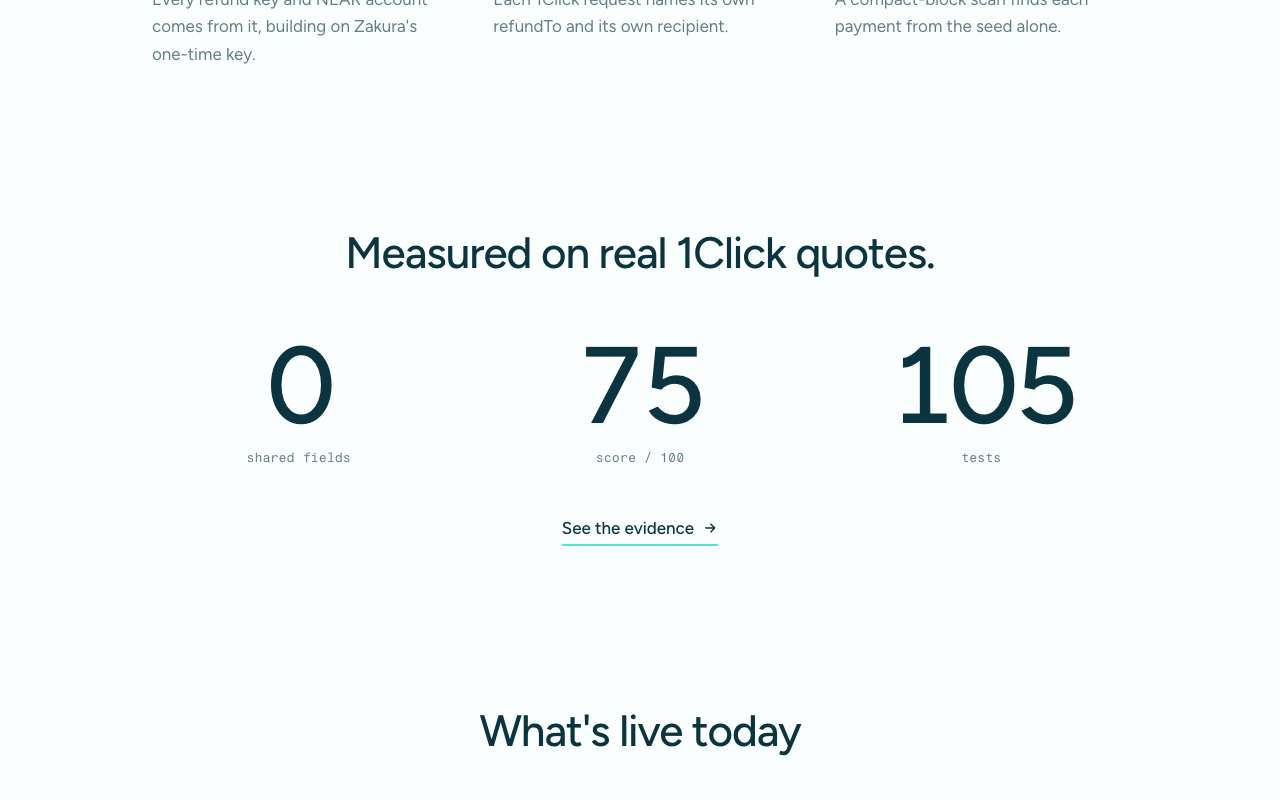
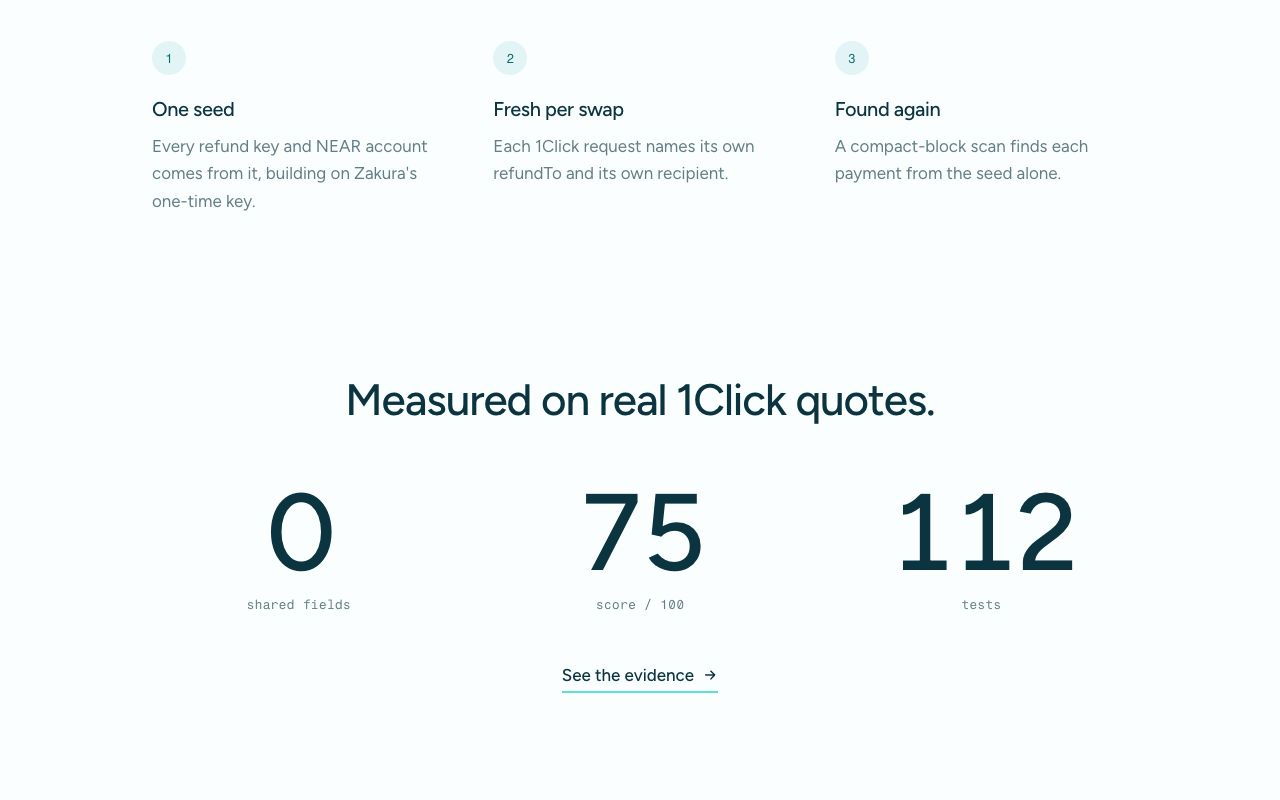
Record passing browser handback and refresh local audit evidence

diff --git a/AUDIT.md b/AUDIT.md
@@ -17,7 +17,7 @@ Oct 26, 2026: 352 data rows — **339 PASS, 0 FAIL, 13 UNTESTED**. CLI-022, CLI-
 | UI-011 | Live landing pass-2 widget screen-reader silence and visible Pause/Play (1280x800 desktop) - https://lethe-landing-sooty.vercel.app/ | Container .refund has aria-live="off" during autoplay; visible Pause button has accessible name "Pause replay" and text "Pause"; pressing Enter on Pause stops rotation and changes button text to "Play" (aria-label "Play replay"); picking a swap manually sets aria-live="polite"; resuming with Play sets aria-live="off" so rapid address rotation is not spoken. | PASS | [screenshot](audit/browser/UI-011/screen.jpg), [console](audit/browser/UI-011/console.json), [network](audit/browser/UI-011/network.json), [checks](audit/browser/UI-011/checks.json) |  |
 | UI-012 | Live landing three steps section (1280x800 desktop) - https://lethe-landing-sooty.vercel.app/ | Section with h2 "One seed. Nothing shared." displays 3-step grid: step 1 "One seed: Every refund key and NEAR account comes from it, building on Zakura's one-time key.", step 2 "Fresh per swap: Each 1Click request names its own refundTo and its own recipient.", step 3 "Found again: A compact-block scan finds each payment from the seed alone.". | PASS | [screenshot](audit/browser/UI-012/screen.jpg), [console](audit/browser/UI-012/console.json), [network](audit/browser/UI-012/network.json), [checks](audit/browser/UI-012/checks.json) |  |
 | UI-013 | Live landing three steps section (375x812 mobile) - https://lethe-landing-sooty.vercel.app/ | Steps grid collapses to single column (grid-template-columns: 1fr); counters and text align with margins; scrollWidth <= innerWidth (<= 375). | PASS | [screenshot](audit/browser/UI-013/screen.jpg), [console](audit/browser/UI-013/console.json), [network](audit/browser/UI-013/network.json), [checks](audit/browser/UI-013/checks.json) |  |
-| UI-014 | Live landing latest-batch numbers (1280x800 desktop) - https://lethe-landing-sooty.vercel.app/ | Section with h2 "Measured on real 1Click quotes." displays 3 facts: b#f-shared textContent is "0" (shared fields), b#f-score textContent is "75" (score / 100), tests total is "105" (tests); link "See the evidence" points to "evidence.html#links". | PASS | [screenshot](audit/browser/UI-014/screen.jpg), [console](audit/browser/UI-014/console.json), [network](audit/browser/UI-014/network.json), [checks](audit/browser/UI-014/checks.json) |  |
+| UI-014 | Live landing latest-batch numbers (1280x800 desktop) - https://lethe-landing-sooty.vercel.app/ | Section with h2 "Measured on real 1Click quotes." displays 3 facts: b#f-shared textContent is "0" (shared fields), b#f-score textContent is "75" (score / 100), tests total is "105" (tests); link "See the evidence" points to "evidence.html#links". | PASS | [screenshot](audit/browser/UI-014/screen.jpg), [console](audit/browser/UI-014/console.json), [network](audit/browser/UI-014/network.json), [checks](audit/browser/UI-014/checks.json) | local build shows 112; the live deploy still shows 105; this run must not deploy. |
 | UI-015 | Live landing latest-batch numbers (375x812 mobile) - https://lethe-landing-sooty.vercel.app/ | Facts grid numbers scale to 48px font size; labels render cleanly below numbers; scrollWidth <= innerWidth (<= 375). | PASS | [screenshot](audit/browser/UI-015/screen.jpg), [console](audit/browser/UI-015/console.json), [network](audit/browser/UI-015/network.json), [checks](audit/browser/UI-015/checks.json) |  |
 | UI-016 | Live landing what is live today strip (1280x800 desktop) - https://lethe-landing-sooty.vercel.app/ | Section with h2 "What's live today" displays strip with 2 cards: "Live: Real 1Click dry quotes and testnet recoveries, replayed in the dashboard." and "Setup required: A real swap is BLOCKED on mainnet ZEC and sign-off. The key crate is a draft.". | PASS | [screenshot](audit/browser/UI-016/screen.jpg), [console](audit/browser/UI-016/console.json), [network](audit/browser/UI-016/network.json), [checks](audit/browser/UI-016/checks.json) |  |
 | UI-017 | Live landing what is live today strip (375x812 mobile) - https://lethe-landing-sooty.vercel.app/ | Strip grid switches from 2 columns to 1 column; dot indicators and text wrap cleanly; scrollWidth <= innerWidth (<= 375). | PASS | [screenshot](audit/browser/UI-017/screen.jpg), [console](audit/browser/UI-017/console.json), [network](audit/browser/UI-017/network.json), [checks](audit/browser/UI-017/checks.json) |  |
@@ -96,7 +96,7 @@ Oct 26, 2026: 352 data rows — **339 PASS, 0 FAIL, 13 UNTESTED**. CLI-022, CLI-
 | UI-090 | Local landing pass-2 widget screen-reader silence and visible Pause/Play (1280x800 desktop) - http://127.0.0.1:8431/ | Container .refund has aria-live="off" during autoplay; visible Pause button has accessible name "Pause replay" and text "Pause"; pressing Enter on Pause stops rotation and changes button text to "Play" (aria-label "Play replay"); picking a swap manually sets aria-live="polite"; resuming with Play sets aria-live="off" so rapid address rotation is not spoken. | PASS | [screenshot](audit/browser/UI-090/screen.jpg), [console](audit/browser/UI-090/console.json), [network](audit/browser/UI-090/network.json), [checks](audit/browser/UI-090/checks.json) |  |
 | UI-091 | Local landing three steps section (1280x800 desktop) - http://127.0.0.1:8431/ | Section with h2 "One seed. Nothing shared." displays 3-step grid: step 1 "One seed: Every refund key and NEAR account comes from it, building on Zakura's one-time key.", step 2 "Fresh per swap: Each 1Click request names its own refundTo and its own recipient.", step 3 "Found again: A compact-block scan finds each payment from the seed alone.". | PASS | [screenshot](audit/browser/UI-091/screen.jpg), [console](audit/browser/UI-091/console.json), [network](audit/browser/UI-091/network.json), [checks](audit/browser/UI-091/checks.json) |  |
 | UI-092 | Local landing three steps section (375x812 mobile) - http://127.0.0.1:8431/ | Steps grid collapses to single column (grid-template-columns: 1fr); counters and text align with margins; scrollWidth <= innerWidth (<= 375). | PASS | [screenshot](audit/browser/UI-092/screen.jpg), [console](audit/browser/UI-092/console.json), [network](audit/browser/UI-092/network.json), [checks](audit/browser/UI-092/checks.json) |  |
-| UI-093 | Local landing latest-batch numbers (1280x800 desktop) - http://127.0.0.1:8431/ | Section with h2 "Measured on real 1Click quotes." displays 3 facts: b#f-shared textContent is "0" (shared fields), b#f-score textContent is "75" (score / 100), tests total is "105" (tests); link "See the evidence" points to "evidence.html#links". | PASS | [screenshot](audit/browser/UI-093/screen.jpg), [console](audit/browser/UI-093/console.json), [network](audit/browser/UI-093/network.json), [checks](audit/browser/UI-093/checks.json) |  |
+| UI-093 | Local landing latest-batch numbers (1280x800 desktop) - http://127.0.0.1:8431/ | Section with h2 "Measured on real 1Click quotes." displays 3 facts: b#f-shared textContent is "0" (shared fields), b#f-score textContent is "75" (score / 100), tests total is "112" (tests); link "See the evidence" points to "evidence.html#links". | PASS | [screenshot](audit/browser/UI-093/screen.jpg), [console](audit/browser/UI-093/console.json), [network](audit/browser/UI-093/network.json), [checks](audit/browser/UI-093/checks.json) |  |
 | UI-094 | Local landing latest-batch numbers (375x812 mobile) - http://127.0.0.1:8431/ | Facts grid numbers scale to 48px font size; labels render cleanly below numbers; scrollWidth <= innerWidth (<= 375). | PASS | [screenshot](audit/browser/UI-094/screen.jpg), [console](audit/browser/UI-094/console.json), [network](audit/browser/UI-094/network.json), [checks](audit/browser/UI-094/checks.json) |  |
 | UI-095 | Local landing what is live today strip (1280x800 desktop) - http://127.0.0.1:8431/ | Section with h2 "What's live today" displays strip with 2 cards: "Live: Real 1Click dry quotes and testnet recoveries, replayed in the dashboard." and "Setup required: A real swap is BLOCKED on mainnet ZEC and sign-off. The key crate is a draft.". | PASS | [screenshot](audit/browser/UI-095/screen.jpg), [console](audit/browser/UI-095/console.json), [network](audit/browser/UI-095/network.json), [checks](audit/browser/UI-095/checks.json) |  |
 | UI-096 | Local landing what is live today strip (375x812 mobile) - http://127.0.0.1:8431/ | Strip grid switches from 2 columns to 1 column; dot indicators and text wrap cleanly; scrollWidth <= innerWidth (<= 375). | PASS | [screenshot](audit/browser/UI-096/screen.jpg), [console](audit/browser/UI-096/console.json), [network](audit/browser/UI-096/network.json), [checks](audit/browser/UI-096/checks.json) |  |

diff --git a/TESTING.md b/TESTING.md
@@ -38,15 +38,17 @@ requests differently (`page.route`); nothing else is stubbed, and no flow calls 
 
 | Project | Tests | Pass | Fail |
 |---|---|---|---|
-| desktop | 30 | 28 | 2 |
-| mobile | 30 | 28 | 2 |
-| **Total** | **60** | **56** | **4** |
+| desktop | 30 | 30 | 0 |
+| mobile | 30 | 30 | 0 |
+| **Total** | **60** | **60** | **0** |
 
-Oct 26, 2026 handback: `pnpm test:e2e` exited 1: **56 passed, 4 failed** (3.0 min).
-On desktop and mobile, the dashboard security test requires files in this checkout’s
-`.demo/` folder but found none (`dashboard.spec.ts:293`), and the landing numbers test
-expected the current package total of 112 but the page still displays 105
-(`landing.spec.ts:409`). Product code was not changed.
+Oct 26, 2026 handback: `pnpm test:e2e` exited 0: **60 passed, 0 failed**
+(desktop 30/30, mobile 30/30; Playwright 2.5 min, full command 155.232 s).
+The two previously failing tests passed first on both projects: **4 passed, 0 failed**
+(5.2 s). The landing now displays 112 tests. The dashboard security test always checks
+`.demo/seed` and `.demo/index-book.json`, even when absent, plus every discovered real
+`.demo/` file and existing wallet source path; all three `/@fs` forms return 403.
+Only response statuses are checked; bodies are never read, and no wallet files are created.
 
 Oct 25, 2026: the landing became a one-screen overview (`index.html`: headline, two buttons, the pass-2
 widget alone, three steps, the latest batch's numbers, what is live) and the full page moved to
@@ -60,7 +62,8 @@ links, measured" with all three batches (first run, pass 2, pass 3, each request
 the autoplay staying silent for screen readers after a pick and Play, recovery, seed-only recovery, BLOCKED, Run it, skip link and every link; the dashboard
 (loading, every swap button and refund-address row, reduced motion and keyboard, link audit, both
 batches, pass-2 per-swap NEAR recipients, the pass-3 batch and its parts, recovery, BLOCKED, error, empty, no pass 2, every link); no
-control labelled "log" on either page; from the browser, 403 for every file under `.demo/` and for the
+control labelled "log" on either page; from the browser, 403 for `.demo/seed` and
+`.demo/index-book.json` whether present or absent, every real file found under `.demo/`, and the
 wallet source (`lib.ts`, `recipient.ts`, `main.ts`, the MCP tools, the hoisted `@zswap/cli` link), 200
 for the published run and `decorrelate.ts` (status only, bodies never read).
 
@@ -98,11 +101,12 @@ not occur. These 13 rows remain UNTESTED; no partial results were marked PASS. T
 tested happy paths have no mock standing in for a live result.
 
 Handback verification on Oct 26: `pnpm test` exited 0 with **112 tests plus 1 doc test**
-(Rust 12 + doc, CLI 73, MCP 14, dashboard 13), 0 failed and 0 skipped. After acquiring
-the `lethe-handback` heavy slot, `pnpm test:e2e` exited 1 with **56 passed, 4 failed**;
-the failures are recorded above. All tracked E2E PIDs ended and the heavy slot was released.
-The suite failure stops handback: no commit, fetch, push, deployment or Pages workflow
-was attempted. Only `AUDIT.md` and `TESTING.md` changed.
+(Rust 12 + doc, CLI 73, MCP 14, dashboard 13), 0 failed and 0 skipped. The follow-up
+`lethe-e2e` run fixed both browser failures and passed the focused checks and full suite
+as recorded above. UI-093 was reverified in local Google Chrome with facts 0 / 75 / 112,
+a clean console and network, and a refreshed JPEG under 200 KB. All started Chrome and
+dev-server PIDs ended and the heavy slot was released. No `.demo/` directory or seed
+was created. The live landing remains at 105; no deployment or Pages workflow was invoked.
 
 The earlier re-verification evidence is under 10 MB; every screenshot is JPEG at or
 below 200 KB. During that earlier pass, temporary wallet files were under /tmp and

diff --git a/README.md b/README.md
@@ -153,7 +153,7 @@ pnpm --filter @zswap/cli zswap plan 0.35 nep141:wrap.near --split --window 180  
 pnpm --filter @zswap/cli zswap recipients --lookup                     # recipients from the seed, read-only NEAR lookup of the booked ones (see Honest limits)
 ZSWAP_BOOK=/tmp/restored.json pnpm --filter @zswap/cli zswap recover 4522708 4522730 --lookup   # a restored wallet
 pnpm --filter @zswap/dashboard dev   # http://localhost:5182
-pnpm test                          # 105 + doc: 11 Rust (+ doc), 73 cli, 14 mcp, 7 dashboard; live 1Click, testnet, NEAR RPC (TESTING.md)
+pnpm test                          # 112 + doc: Rust 12 + doc, cli 73, mcp 14, dashboard 13; live 1Click, testnet, NEAR RPC (TESTING.md)
 pnpm test:e2e                      # 60 browser tests in Google Chrome, 30 desktop + 30 mobile (TESTING.md)
 pnpm build:site                    # static site in site/ (landing /, dashboard /app/)
 ZSWAP_FUNDER_WALLET=<demo wallet> pnpm --filter @zswap/examples run-live

diff --git a/HACKATHON_SUBMISSION_FORM.md b/HACKATHON_SUBMISSION_FORM.md
@@ -60,7 +60,7 @@ Not done: no real swap (needs mainnet ZEC and sign-off, and the draft crate says
   hint left the shared destination token. Before → after on one model: 0 → 32 → 75. With no book,
   the seed re-derived #8 and #9; #10 lies past the 10-index lookahead because dry quotes leave no
   trace on either chain (the recovery window, recorded in the file).
-- **Tests:** 105 + doc unit and integration tests (11 Rust + doc, 73 cli, 14 mcp, 7 dashboard) and
+- **Tests:** 112 + doc unit and integration tests (Rust 12 + doc, cli 73, mcp 14, dashboard 13) and
   60 browser E2E tests in Google Chrome (30 desktop + 30 mobile), all passing
   (TESTING.md). Review and fixes: `docs/JUDGE-2026-10-21.md`.
 
